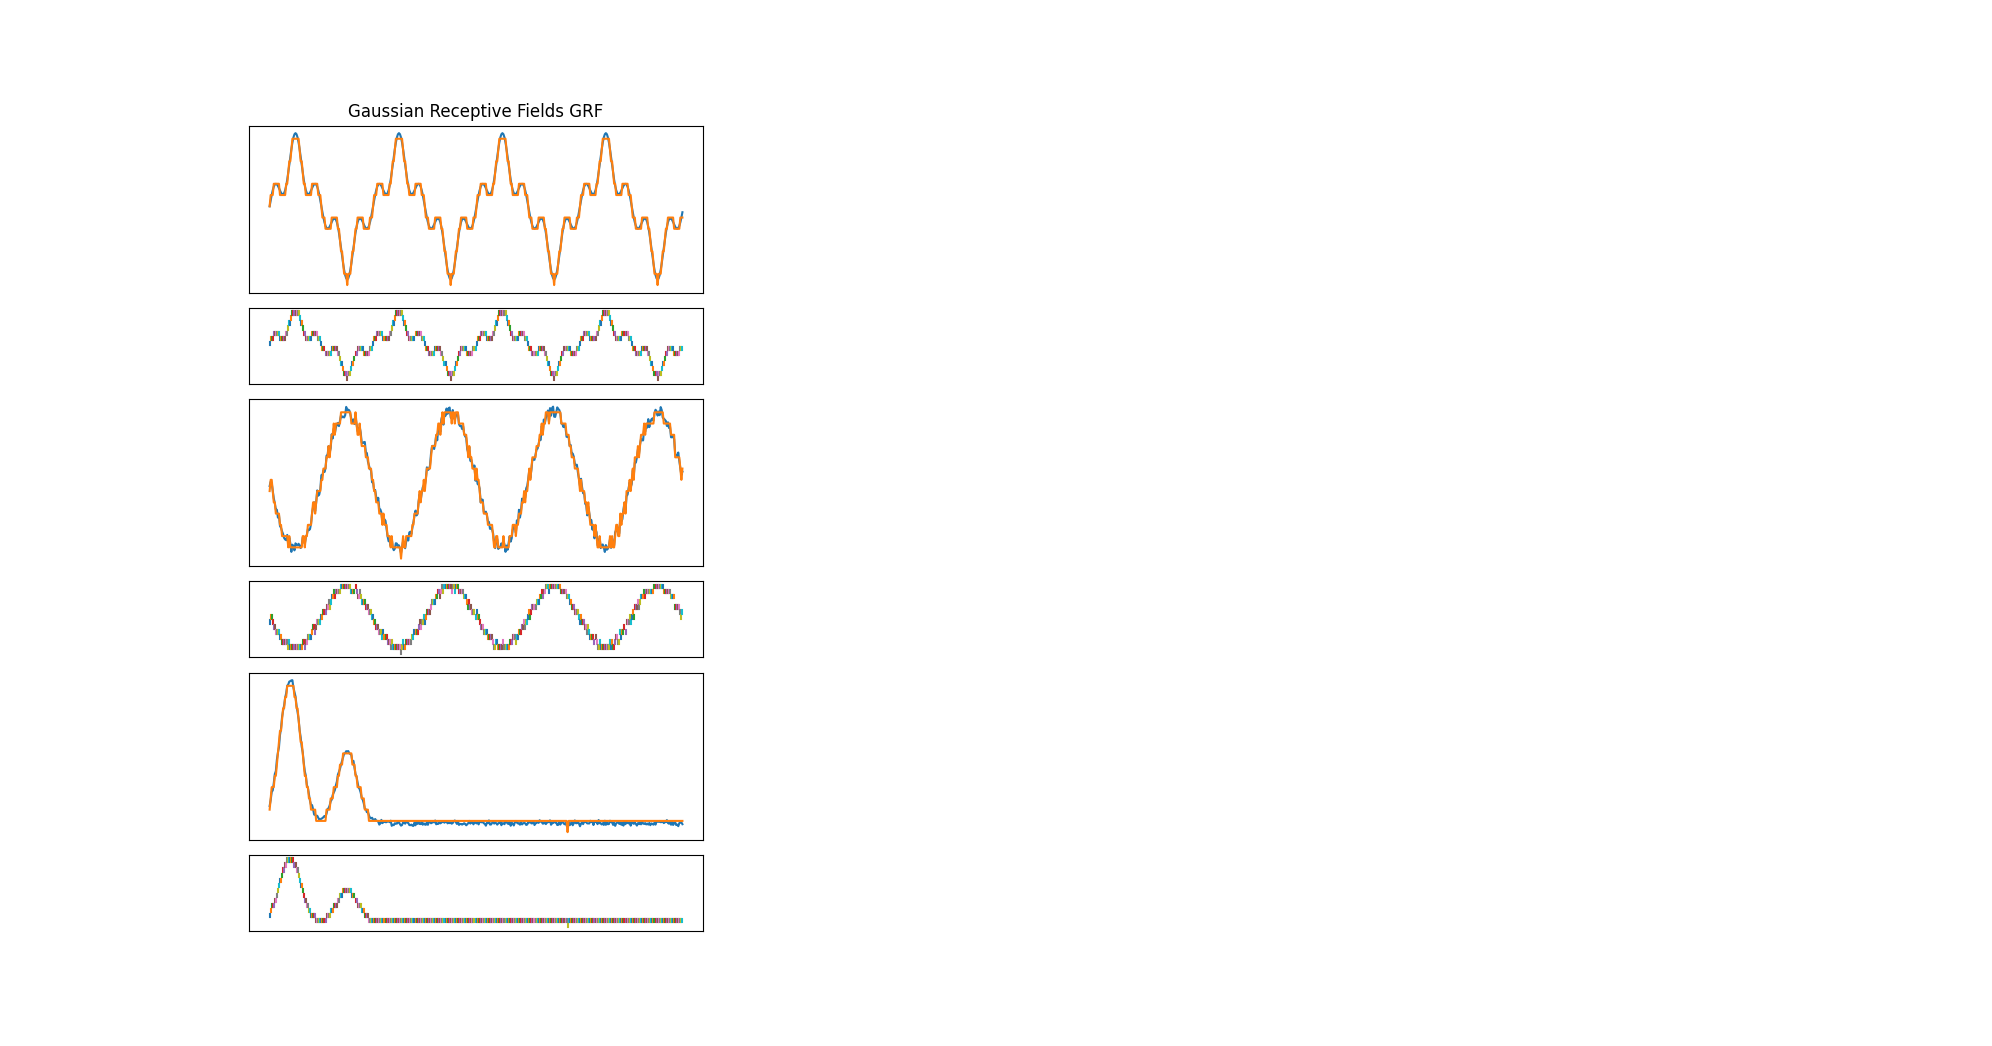
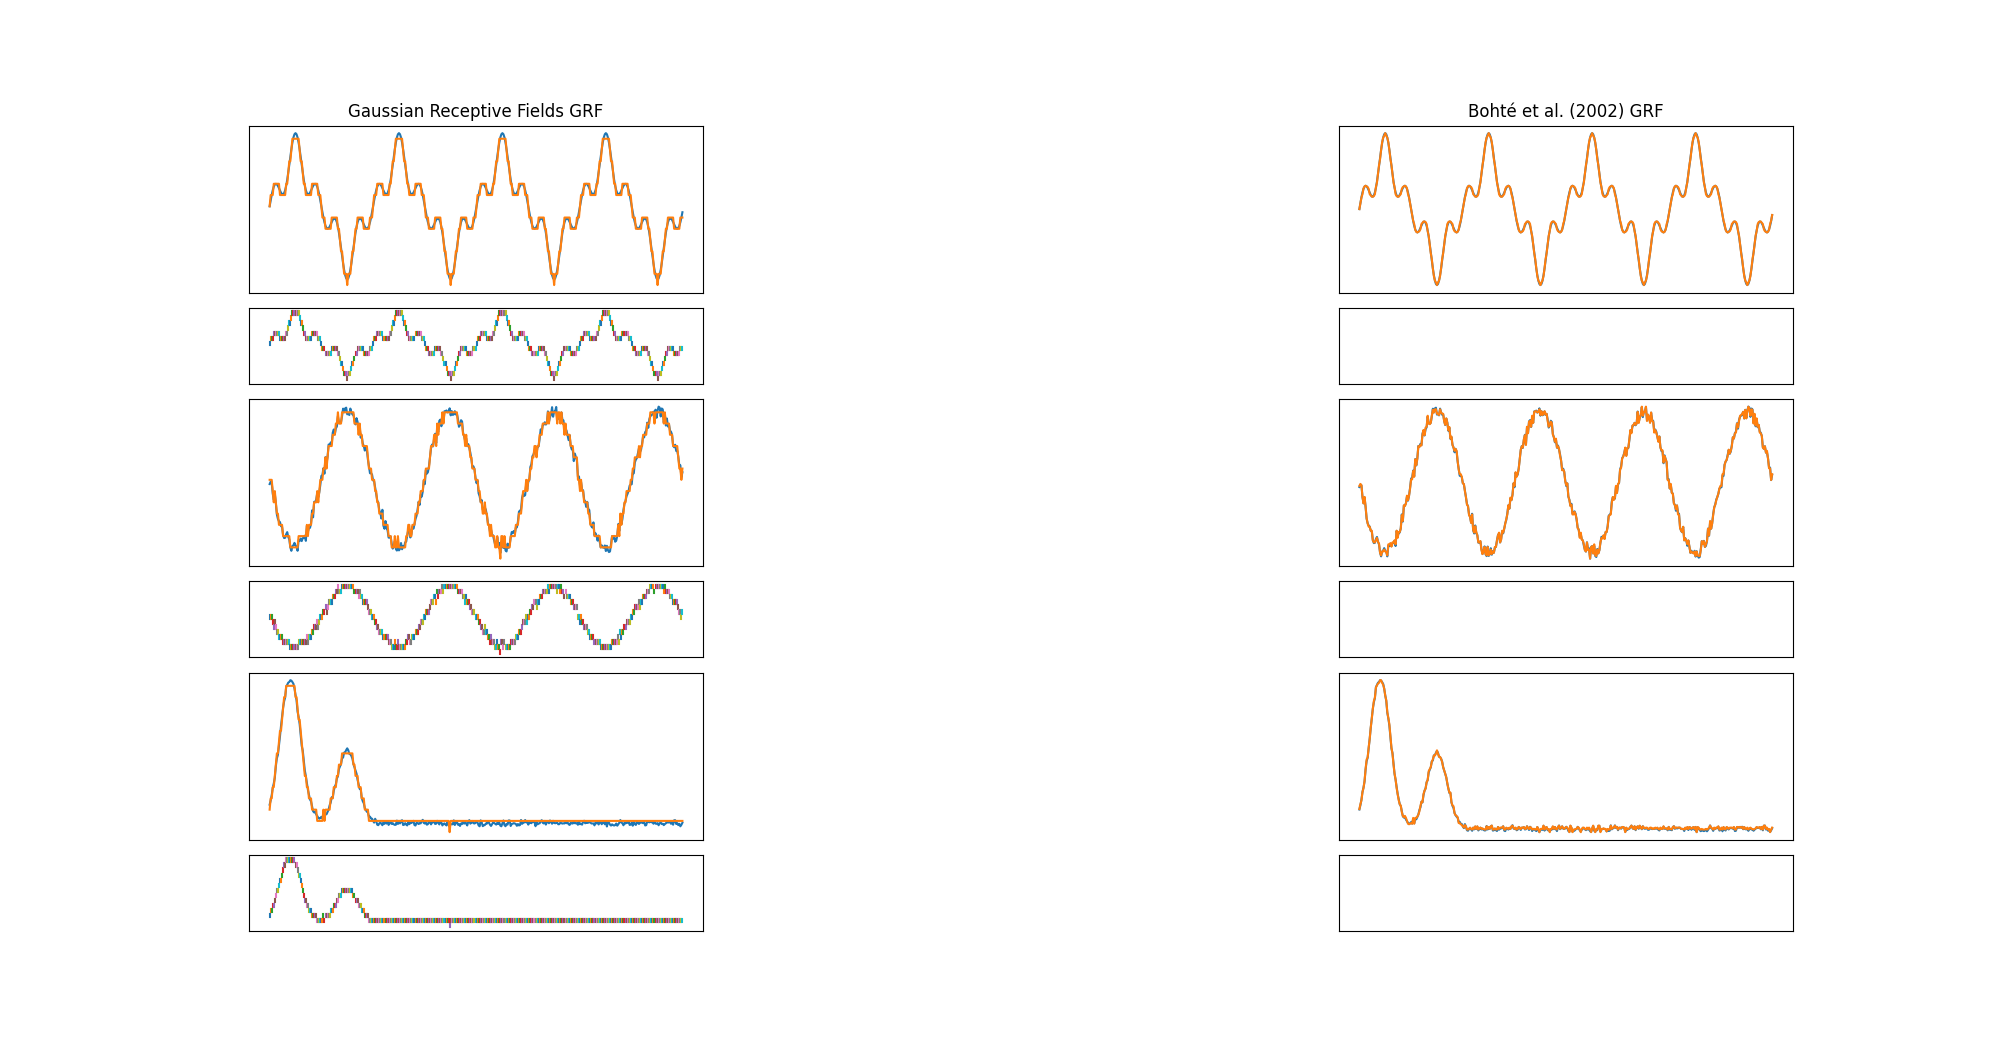
update python plots for Bohte et al. (2002) GRF

diff --git a/SpikeCodingPython/main.py b/SpikeCodingPython/main.py
@@ -46,144 +46,154 @@ if __name__ == '__main__':
     S.append(FG.sum_of_sine_waves([-0.25], [1.0], [0.0], 0.05, time))
     S.append(FG.sum_of_gaussian_wave([1, 0.5], [0.2, 0.75], [0.1, 0.1], 0.1, time))
 
-    tbr_factors = [1.005, 1.005, 1.005]
+    # tbr_factors = [1.005, 1.005, 1.005]
     
-    sf_thresholds = [0.35, 0.05, 0.35]
+    # sf_thresholds = [0.35, 0.05, 0.35]
     
-    mw_thresholds = [0.325, 0.015, 0.225]
-    mw_window = [3, 3, 3]
+    # mw_thresholds = [0.325, 0.015, 0.225]
+    # mw_window = [3, 3, 3]
 
-    for i in range(len(S)):
+    # for i in range(len(S)):
 
-        spikes_TBR, threshold = ES.temporal_contrast(S[i], tbr_factors[i])
-        signal_TBR = 2*DS.temporal_contrast(spikes_TBR, threshold)
+    #     spikes_TBR, threshold = ES.temporal_contrast(S[i], tbr_factors[i])
+    #     signal_TBR = 2*DS.temporal_contrast(spikes_TBR, threshold)
 
-        spikes_SF, startpoint = ES.step_forward(S[i], sf_thresholds[i])
-        signal_SF = DS.step_forward(spikes_SF, sf_thresholds[i], startpoint)
+    #     spikes_SF, startpoint = ES.step_forward(S[i], sf_thresholds[i])
+    #     signal_SF = DS.step_forward(spikes_SF, sf_thresholds[i], startpoint)
 
-        spikes_MW, startpoint = ES.moving_window(S[i], mw_thresholds[i], mw_window[i])
-        signal_MW = DS.moving_window(spikes_MW, mw_thresholds[i], startpoint)
+    #     spikes_MW, startpoint = ES.moving_window(S[i], mw_thresholds[i], mw_window[i])
+    #     signal_MW = DS.moving_window(spikes_MW, mw_thresholds[i], startpoint)
 
-        plt.subplot(3*len(S),3,(1+i*3*len(S),4+i*3*len(S)))
-        plt.plot(time, S[i])
-        plt.plot(time, signal_TBR)
-        plt.gca().axes.get_xaxis().set_visible(False)
-        plt.gca().axes.get_yaxis().set_visible(False)
-        if i == 0:
-            plt.title("Temporal Contrast Algorithm TBR")
+    #     plt.subplot(3*len(S),3,(1+i*3*len(S),4+i*3*len(S)))
+    #     plt.plot(time, S[i])
+    #     plt.plot(time, signal_TBR)
+    #     plt.gca().axes.get_xaxis().set_visible(False)
+    #     plt.gca().axes.get_yaxis().set_visible(False)
+    #     if i == 0:
+    #         plt.title("Temporal Contrast Algorithm TBR")
 
-        plt.subplot(3*len(S),3,7+i*3*len(S))
-        plt.stem(time, spikes_TBR)
-        plt.gca().axes.get_xaxis().set_visible(False)
-        plt.gca().axes.get_yaxis().set_visible(False)
+    #     plt.subplot(3*len(S),3,7+i*3*len(S))
+    #     plt.stem(time, spikes_TBR)
+    #     plt.gca().axes.get_xaxis().set_visible(False)
+    #     plt.gca().axes.get_yaxis().set_visible(False)
 
-        plt.subplot(3*len(S),3,(2+i*3*len(S),5+i*3*len(S)))
-        plt.plot(time, S[i])
-        plt.plot(time, signal_SF)
-        plt.gca().axes.get_xaxis().set_visible(False)
-        plt.gca().axes.get_yaxis().set_visible(False)
-        if i == 0:
-            plt.title("Step Forward Algorithm SF")
+    #     plt.subplot(3*len(S),3,(2+i*3*len(S),5+i*3*len(S)))
+    #     plt.plot(time, S[i])
+    #     plt.plot(time, signal_SF)
+    #     plt.gca().axes.get_xaxis().set_visible(False)
+    #     plt.gca().axes.get_yaxis().set_visible(False)
+    #     if i == 0:
+    #         plt.title("Step Forward Algorithm SF")
 
-        plt.subplot(3*len(S),3,8+i*3*len(S))
-        plt.stem(time, spikes_SF)
-        plt.gca().axes.get_xaxis().set_visible(False)
-        plt.gca().axes.get_yaxis().set_visible(False)
+    #     plt.subplot(3*len(S),3,8+i*3*len(S))
+    #     plt.stem(time, spikes_SF)
+    #     plt.gca().axes.get_xaxis().set_visible(False)
+    #     plt.gca().axes.get_yaxis().set_visible(False)
 
-        plt.subplot(3*len(S),3,(3+i*3*len(S),6+i*3*len(S)))
-        plt.plot(time, S[i])
-        plt.plot(time, signal_MW)
-        plt.gca().axes.get_xaxis().set_visible(False)
-        plt.gca().axes.get_yaxis().set_visible(False)
-        if i == 0:
-            plt.title("Moving Window Algorithm MW")
+    #     plt.subplot(3*len(S),3,(3+i*3*len(S),6+i*3*len(S)))
+    #     plt.plot(time, S[i])
+    #     plt.plot(time, signal_MW)
+    #     plt.gca().axes.get_xaxis().set_visible(False)
+    #     plt.gca().axes.get_yaxis().set_visible(False)
+    #     if i == 0:
+    #         plt.title("Moving Window Algorithm MW")
 
-        plt.subplot(3*len(S),3,9+i*3*len(S))
-        plt.stem(time, spikes_MW)
-        plt.gca().axes.get_xaxis().set_visible(False)
-        plt.gca().axes.get_yaxis().set_visible(False)
+    #     plt.subplot(3*len(S),3,9+i*3*len(S))
+    #     plt.stem(time, spikes_MW)
+    #     plt.gca().axes.get_xaxis().set_visible(False)
+    #     plt.gca().axes.get_yaxis().set_visible(False)
         
-    plt.show()
+    # plt.show()
 
-    hsa_window = [12, 15, 12]
-    hsa_fir = list()
-    hsa_fir.append(signal.triang(hsa_window[0]))
-    hsa_fir.append(norm.pdf(np.linspace(1, hsa_window[1], hsa_window[1]), 0, 5))
-    hsa_fir.append(signal.triang(hsa_window[2]))
+    # hsa_window = [12, 15, 12]
+    # hsa_fir = list()
+    # hsa_fir.append(signal.triang(hsa_window[0]))
+    # hsa_fir.append(norm.pdf(np.linspace(1, hsa_window[1], hsa_window[1]), 0, 5))
+    # hsa_fir.append(signal.triang(hsa_window[2]))
 
-    hsa_m_thresholds = [0.85, 0.05, 0.5]
+    # hsa_m_thresholds = [0.85, 0.05, 0.5]
 
-    bsa_window = [9, 10, 8]
-    bsa_fir = list()
-    bsa_fir.append(signal.triang(bsa_window[0]))
-    bsa_fir.append(norm.pdf(np.linspace(1, bsa_window[1], bsa_window[1]), 1.5, 3.5))
-    bsa_fir.append(signal.triang(bsa_window[2]))
+    # bsa_window = [9, 10, 8]
+    # bsa_fir = list()
+    # bsa_fir.append(signal.triang(bsa_window[0]))
+    # bsa_fir.append(norm.pdf(np.linspace(1, bsa_window[1], bsa_window[1]), 1.5, 3.5))
+    # bsa_fir.append(signal.triang(bsa_window[2]))
 
-    bsa_thresholds = [1.175, 1.05, 1.2]
+    # bsa_thresholds = [1.175, 1.05, 1.2]
 
-    for i in range(len(S)):
+    # for i in range(len(S)):
 
-        spikes_HSA, shift = ES.hough_spike(S[i], hsa_fir[i])
-        signal_HSA = DS.ben_spike(spikes_HSA, hsa_fir[i], shift)
+    #     spikes_HSA, shift = ES.hough_spike(S[i], hsa_fir[i])
+    #     signal_HSA = DS.ben_spike(spikes_HSA, hsa_fir[i], shift)
 
-        spikes_HSAm, shift = ES.modified_hough_spike(S[i], hsa_fir[i], hsa_m_thresholds[i])
-        signal_HSAm = DS.ben_spike(spikes_HSAm, hsa_fir[i], shift)
+    #     spikes_HSAm, shift = ES.modified_hough_spike(S[i], hsa_fir[i], hsa_m_thresholds[i])
+    #     signal_HSAm = DS.ben_spike(spikes_HSAm, hsa_fir[i], shift)
 
-        spikes_BSA, shift = ES.ben_spike(S[i], bsa_fir[i], bsa_thresholds[i])
-        signal_BSA = DS.ben_spike(spikes_BSA, bsa_fir[i], shift)
+    #     spikes_BSA, shift = ES.ben_spike(S[i], bsa_fir[i], bsa_thresholds[i])
+    #     signal_BSA = DS.ben_spike(spikes_BSA, bsa_fir[i], shift)
 
-        plt.subplot(3*len(S),3,(1+i*3*len(S),4+i*3*len(S)))
-        plt.plot(time, S[i])
-        plt.plot(time, signal_HSA)
-        plt.gca().axes.get_xaxis().set_visible(False)
-        plt.gca().axes.get_yaxis().set_visible(False)
-        if i == 0:
-            plt.title("Hough Spike Algorithm HSA")
+    #     plt.subplot(3*len(S),3,(1+i*3*len(S),4+i*3*len(S)))
+    #     plt.plot(time, S[i])
+    #     plt.plot(time, signal_HSA)
+    #     plt.gca().axes.get_xaxis().set_visible(False)
+    #     plt.gca().axes.get_yaxis().set_visible(False)
+    #     if i == 0:
+    #         plt.title("Hough Spike Algorithm HSA")
 
-        plt.subplot(3*len(S),3,7+i*3*len(S))
-        plt.stem(time, spikes_HSA)
-        plt.gca().axes.get_xaxis().set_visible(False)
-        plt.gca().axes.get_yaxis().set_visible(False)
+    #     plt.subplot(3*len(S),3,7+i*3*len(S))
+    #     plt.stem(time, spikes_HSA)
+    #     plt.gca().axes.get_xaxis().set_visible(False)
+    #     plt.gca().axes.get_yaxis().set_visible(False)
 
-        plt.subplot(3*len(S),3,(2+i*3*len(S),5+i*3*len(S)))
-        plt.plot(time, S[i])
-        plt.plot(time, signal_HSAm)
-        plt.gca().axes.get_xaxis().set_visible(False)
-        plt.gca().axes.get_yaxis().set_visible(False)
-        if i == 0:
-            plt.title("Threshold Hough Spike Algorithm T-HSA")
+    #     plt.subplot(3*len(S),3,(2+i*3*len(S),5+i*3*len(S)))
+    #     plt.plot(time, S[i])
+    #     plt.plot(time, signal_HSAm)
+    #     plt.gca().axes.get_xaxis().set_visible(False)
+    #     plt.gca().axes.get_yaxis().set_visible(False)
+    #     if i == 0:
+    #         plt.title("Threshold Hough Spike Algorithm T-HSA")
 
-        plt.subplot(3*len(S),3,8+i*3*len(S))
-        plt.stem(time, spikes_HSAm)
-        plt.gca().axes.get_xaxis().set_visible(False)
-        plt.gca().axes.get_yaxis().set_visible(False)
+    #     plt.subplot(3*len(S),3,8+i*3*len(S))
+    #     plt.stem(time, spikes_HSAm)
+    #     plt.gca().axes.get_xaxis().set_visible(False)
+    #     plt.gca().axes.get_yaxis().set_visible(False)
 
-        plt.subplot(3*len(S),3,(3+i*3*len(S),6+i*3*len(S)))
-        plt.plot(time, S[i])
-        plt.plot(time, signal_BSA)
-        plt.gca().axes.get_xaxis().set_visible(False)
-        plt.gca().axes.get_yaxis().set_visible(False)
-        if i == 0:
-            plt.title("Ben Spike Algorithm BSA")
+    #     plt.subplot(3*len(S),3,(3+i*3*len(S),6+i*3*len(S)))
+    #     plt.plot(time, S[i])
+    #     plt.plot(time, signal_BSA)
+    #     plt.gca().axes.get_xaxis().set_visible(False)
+    #     plt.gca().axes.get_yaxis().set_visible(False)
+    #     if i == 0:
+    #         plt.title("Ben Spike Algorithm BSA")
 
-        plt.subplot(3*len(S),3,9+i*3*len(S))
-        plt.stem(time, spikes_BSA)
-        plt.gca().axes.get_xaxis().set_visible(False)
-        plt.gca().axes.get_yaxis().set_visible(False)
+    #     plt.subplot(3*len(S),3,9+i*3*len(S))
+    #     plt.stem(time, spikes_BSA)
+    #     plt.gca().axes.get_xaxis().set_visible(False)
+    #     plt.gca().axes.get_yaxis().set_visible(False)
         
-    plt.show()
+    # plt.show()
 
+    number_of_neurons_grf = 15
+
+    nb_neurons_BOHTE = 15
+    nb_timesteps_BOHTE = 10
+    beta_BOHTE = 1.5
 
     for i in range(len(S)):
 
-        number_of_neurons = 15
+        
         [min_input, max_input] = [min(S[i]), max(S[i])]
-        spikes_GRF_1 = ES.grf_spike(S[i], number_of_neurons, min_input, max_input)
-        signal_GRF_1 = DS.grf_spike(spikes_GRF_1, min_input, max_input)
+        spikes_GRF = ES.grf_spike(S[i], number_of_neurons_grf, min_input, max_input)
+        signal_GRF = DS.grf_spike(spikes_GRF, min_input, max_input)
+
+        spikes_BOHTE = ES.grf_spike_with_internal_timesteps(S[i], min_input, max_input, nb_neurons_BOHTE, nb_timesteps_BOHTE, beta_BOHTE)
+        signal_BOHTE = DS.grf_spike_with_internal_timesteps(spikes_BOHTE, nb_timesteps_BOHTE, min_input, max_input)
+        # shape = spikes_BOHTE.shape
+        # new_spikes_BOHTE = spikes_BOHTE.reshape((int(shape[0]/nb_timesteps_BOHTE), nb_timesteps_BOHTE, shape[1]))
 
         plt.subplot(3*len(S),3,(1+i*3*len(S),4+i*3*len(S)))
         plt.plot(time, S[i])
-        plt.plot(time, signal_GRF_1)
+        plt.plot(time, signal_GRF)
         plt.gca().axes.get_xaxis().set_visible(False)
         plt.gca().axes.get_yaxis().set_visible(False)
         if i == 0:
@@ -191,7 +201,20 @@ if __name__ == '__main__':
 
         plt.subplot(3*len(S),3,7+i*3*len(S))
         for k in range(len(S[i])):
-            plt.plot([time[k], time[k]], [np.argmax(spikes_GRF_1[k,:])-0.35, np.argmax(spikes_GRF_1[k,:])+0.35])
+            plt.plot([time[k], time[k]], [np.argmax(spikes_GRF[k,:])-0.35, np.argmax(spikes_GRF[k,:])+0.35])
+        plt.gca().axes.get_xaxis().set_visible(False)
+        plt.gca().axes.get_yaxis().set_visible(False)
+
+        plt.subplot(3*len(S),3,(3+i*3*len(S),6+i*3*len(S)))
+        plt.plot(time, S[i])
+        plt.plot(time, signal_BOHTE)
+        plt.gca().axes.get_xaxis().set_visible(False)
+        plt.gca().axes.get_yaxis().set_visible(False)
+        if i == 0:
+            plt.title("Bohté et al. (2002) GRF")
+
+        plt.subplot(3*len(S),3,9+i*3*len(S))
+        # TODO: add plot
         plt.gca().axes.get_xaxis().set_visible(False)
         plt.gca().axes.get_yaxis().set_visible(False)
 

diff --git a/SpikeCodingPython/DecodingSchemes.py b/SpikeCodingPython/DecodingSchemes.py
@@ -24,7 +24,7 @@
 # OUT OF OR IN CONNECTION WITH THE SOFTWARE OR THE USE OR OTHER DEALINGS IN THE
 # SOFTWARE.
 #
-# @author Julien Dupeyroux
+# @author Julien Dupeyroux, Stein Stroobants
 
 import numpy as np
 
@@ -95,9 +95,9 @@ def one_hot_place_spike(spikes, min_input, max_input):
         signal[i] = min_input + (2*(np.argmax(spikes[i,:]) + 1)-3)/2*(max_input - min_input)/(shape[1]-2)
     return signal
 
-def grf_spike_with_internal_timesteps(spikes, n, min_input, max_input):
+def grf_spike_with_internal_timesteps(spikes, n_timesteps, min_input, max_input):
     shape = spikes.shape
-    spikes = spikes.reshape((int(shape[0]/n), n, shape[1]))
+    spikes = spikes.reshape((int(shape[0]/n_timesteps), n_timesteps, shape[1]))
     signal = np.zeros(len(spikes))
     mu = np.zeros(shape[1])
 
@@ -106,9 +106,9 @@ def grf_spike_with_internal_timesteps(spikes, n, min_input, max_input):
 
     for i in range(len(spikes)):
         spike_times = np.zeros(shape[1])
-        for j in range(n):
+        for j in range(n_timesteps):
             for spike_idx in spikes[i, j, :].nonzero():
-                spike_times[spike_idx] = n - j
+                spike_times[spike_idx] = n_timesteps - j
 
         weight_center  = np.sum(mu*spike_times)/np.sum(spike_times)
         signal[i] = weight_center

diff --git a/SpikeCodingPython/EncodingSchemes.py b/SpikeCodingPython/EncodingSchemes.py
@@ -24,7 +24,7 @@
 # OUT OF OR IN CONNECTION WITH THE SOFTWARE OR THE USE OR OTHER DEALINGS IN THE
 # SOFTWARE.
 #
-# @author Julien Dupeyroux
+# @author Julien Dupeyroux, Stein Stroobants
 
 import numpy as np
 from scipy.stats import norm

diff --git a/README.md b/README.md
@@ -2,7 +2,7 @@
 
 This package features MATLAB, Python and ROS implementations of spike encoding and decoding algorithms. So far, the following algorithms are available:
 - Population coding:
-	- [Matlab][Python] Gaussian Receptor Fields
+	- [Matlab][Python][ROS] Gaussian Receptor Fields
 	- [Matlab][Python] Bohté et al. (2002) GRF
 - Temporal coding:
 	- [Matlab][Python][ROS] Temporal contrast
